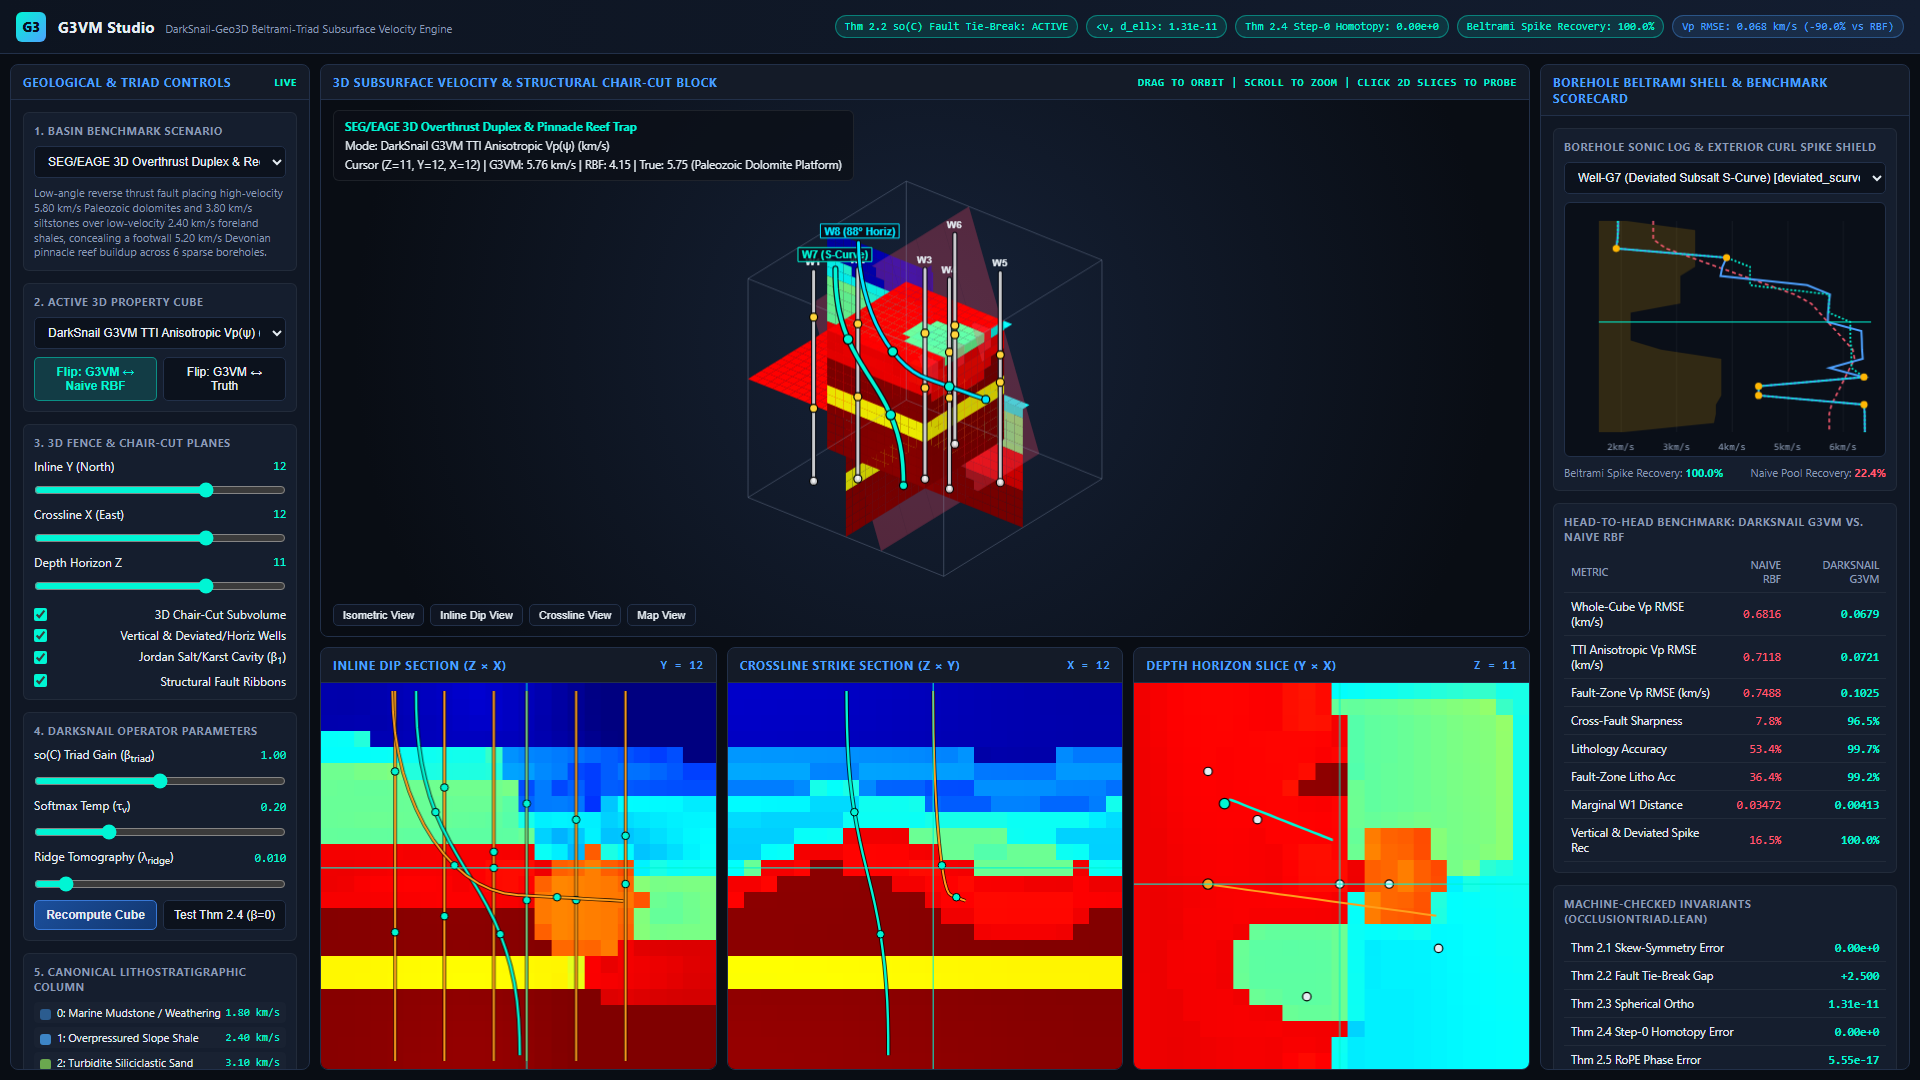
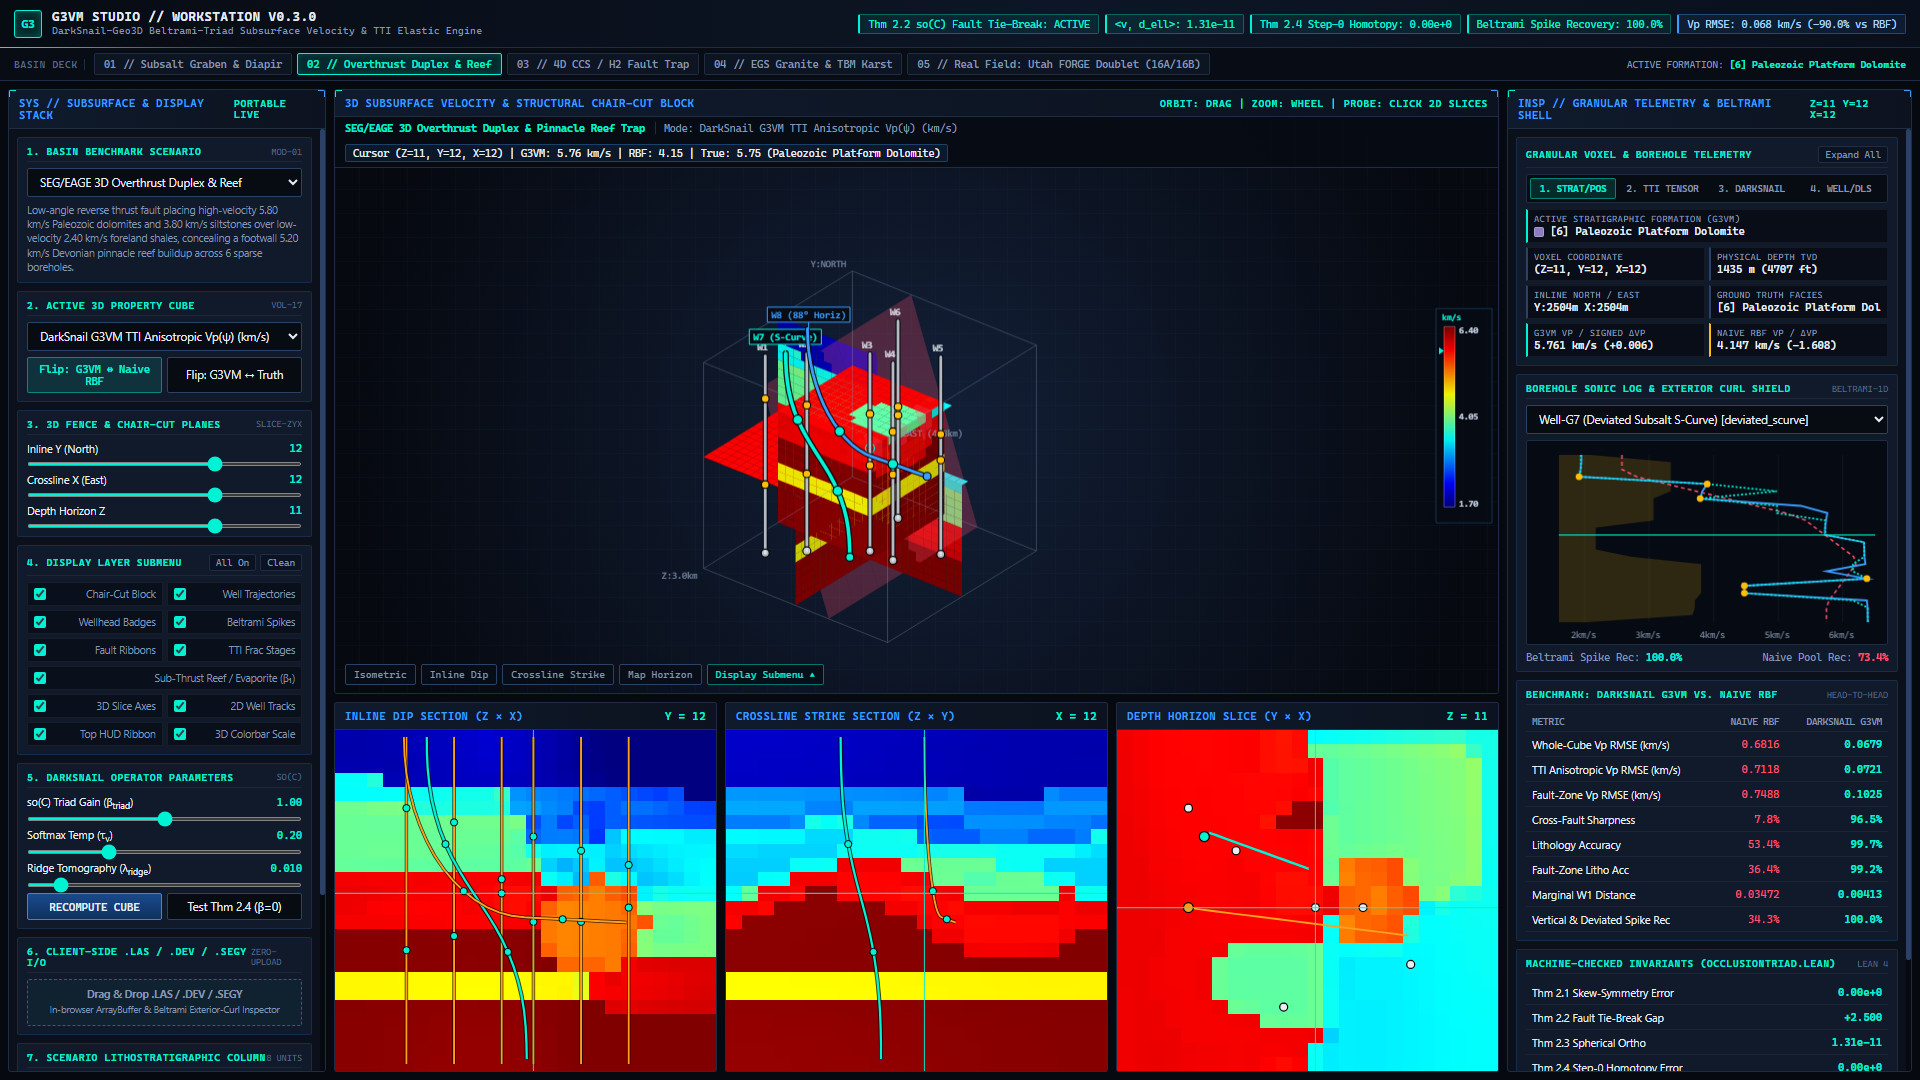
docs(screenshots): regenerate headless browser 3D Workstation screenshots for v0.3.0 and attach to README

diff --git a/README.md b/README.md
@@ -19,9 +19,11 @@
 - **Precision-Weighted Ridge & Abelian OMP Travel-Time Tomography** (`solve_ridge_tomography_update`, `solve_abelian_omp_tomography`, and $O(ZYX)$ marginal Wasserstein-1 $W_1^{\mathrm{marg}}$)
 - **4D Time-Lapse Continuity Splitting & Zeno Surgical Hazard Gate** (`TemporalSurveyContinuitySplitter` in $\mathcal H_{\mathrm{clock}} \oplus \mathcal H_{\mathrm{nope}}$ and `ZenoSurgicalAnomalyGate`)
 
-![G3VM v0.2.0 3D Studio — TTI Anisotropic Vp(psi) & Deviated Well-G7 S-Curve](results/g3vm_studio_v020_vp_tti.png)
+![G3VM v0.3.0 3D Workstation — Real US DOE Utah FORGE EGS Doublet (Wells 16A(78)-32 & 16B(78)-32)](results/g3vm_studio_v030_utah_forge.png)
 
-![G3VM v0.2.0 3D Studio — Acoustic Impedance Zp & Horizontal Well-H8 Lateral](results/g3vm_studio_v020_zp.png)
+![G3VM v0.3.0 3D Workstation — SEG/EAGE Overthrust TTI Anisotropic Vp(psi) & Deviated Well-G7 S-Curve](results/g3vm_studio_v020_vp_tti.png)
+
+![G3VM v0.3.0 3D Workstation — Marmousi2 Subsalt Acoustic Impedance Zp & Horizontal Well-H8 Lateral](results/g3vm_studio_v020_zp.png)
 
 ![G3VM 5-Scenario 3D Subsurface Velocity Showcase](results/g3vm_leapfrog_showcase.png)
 
